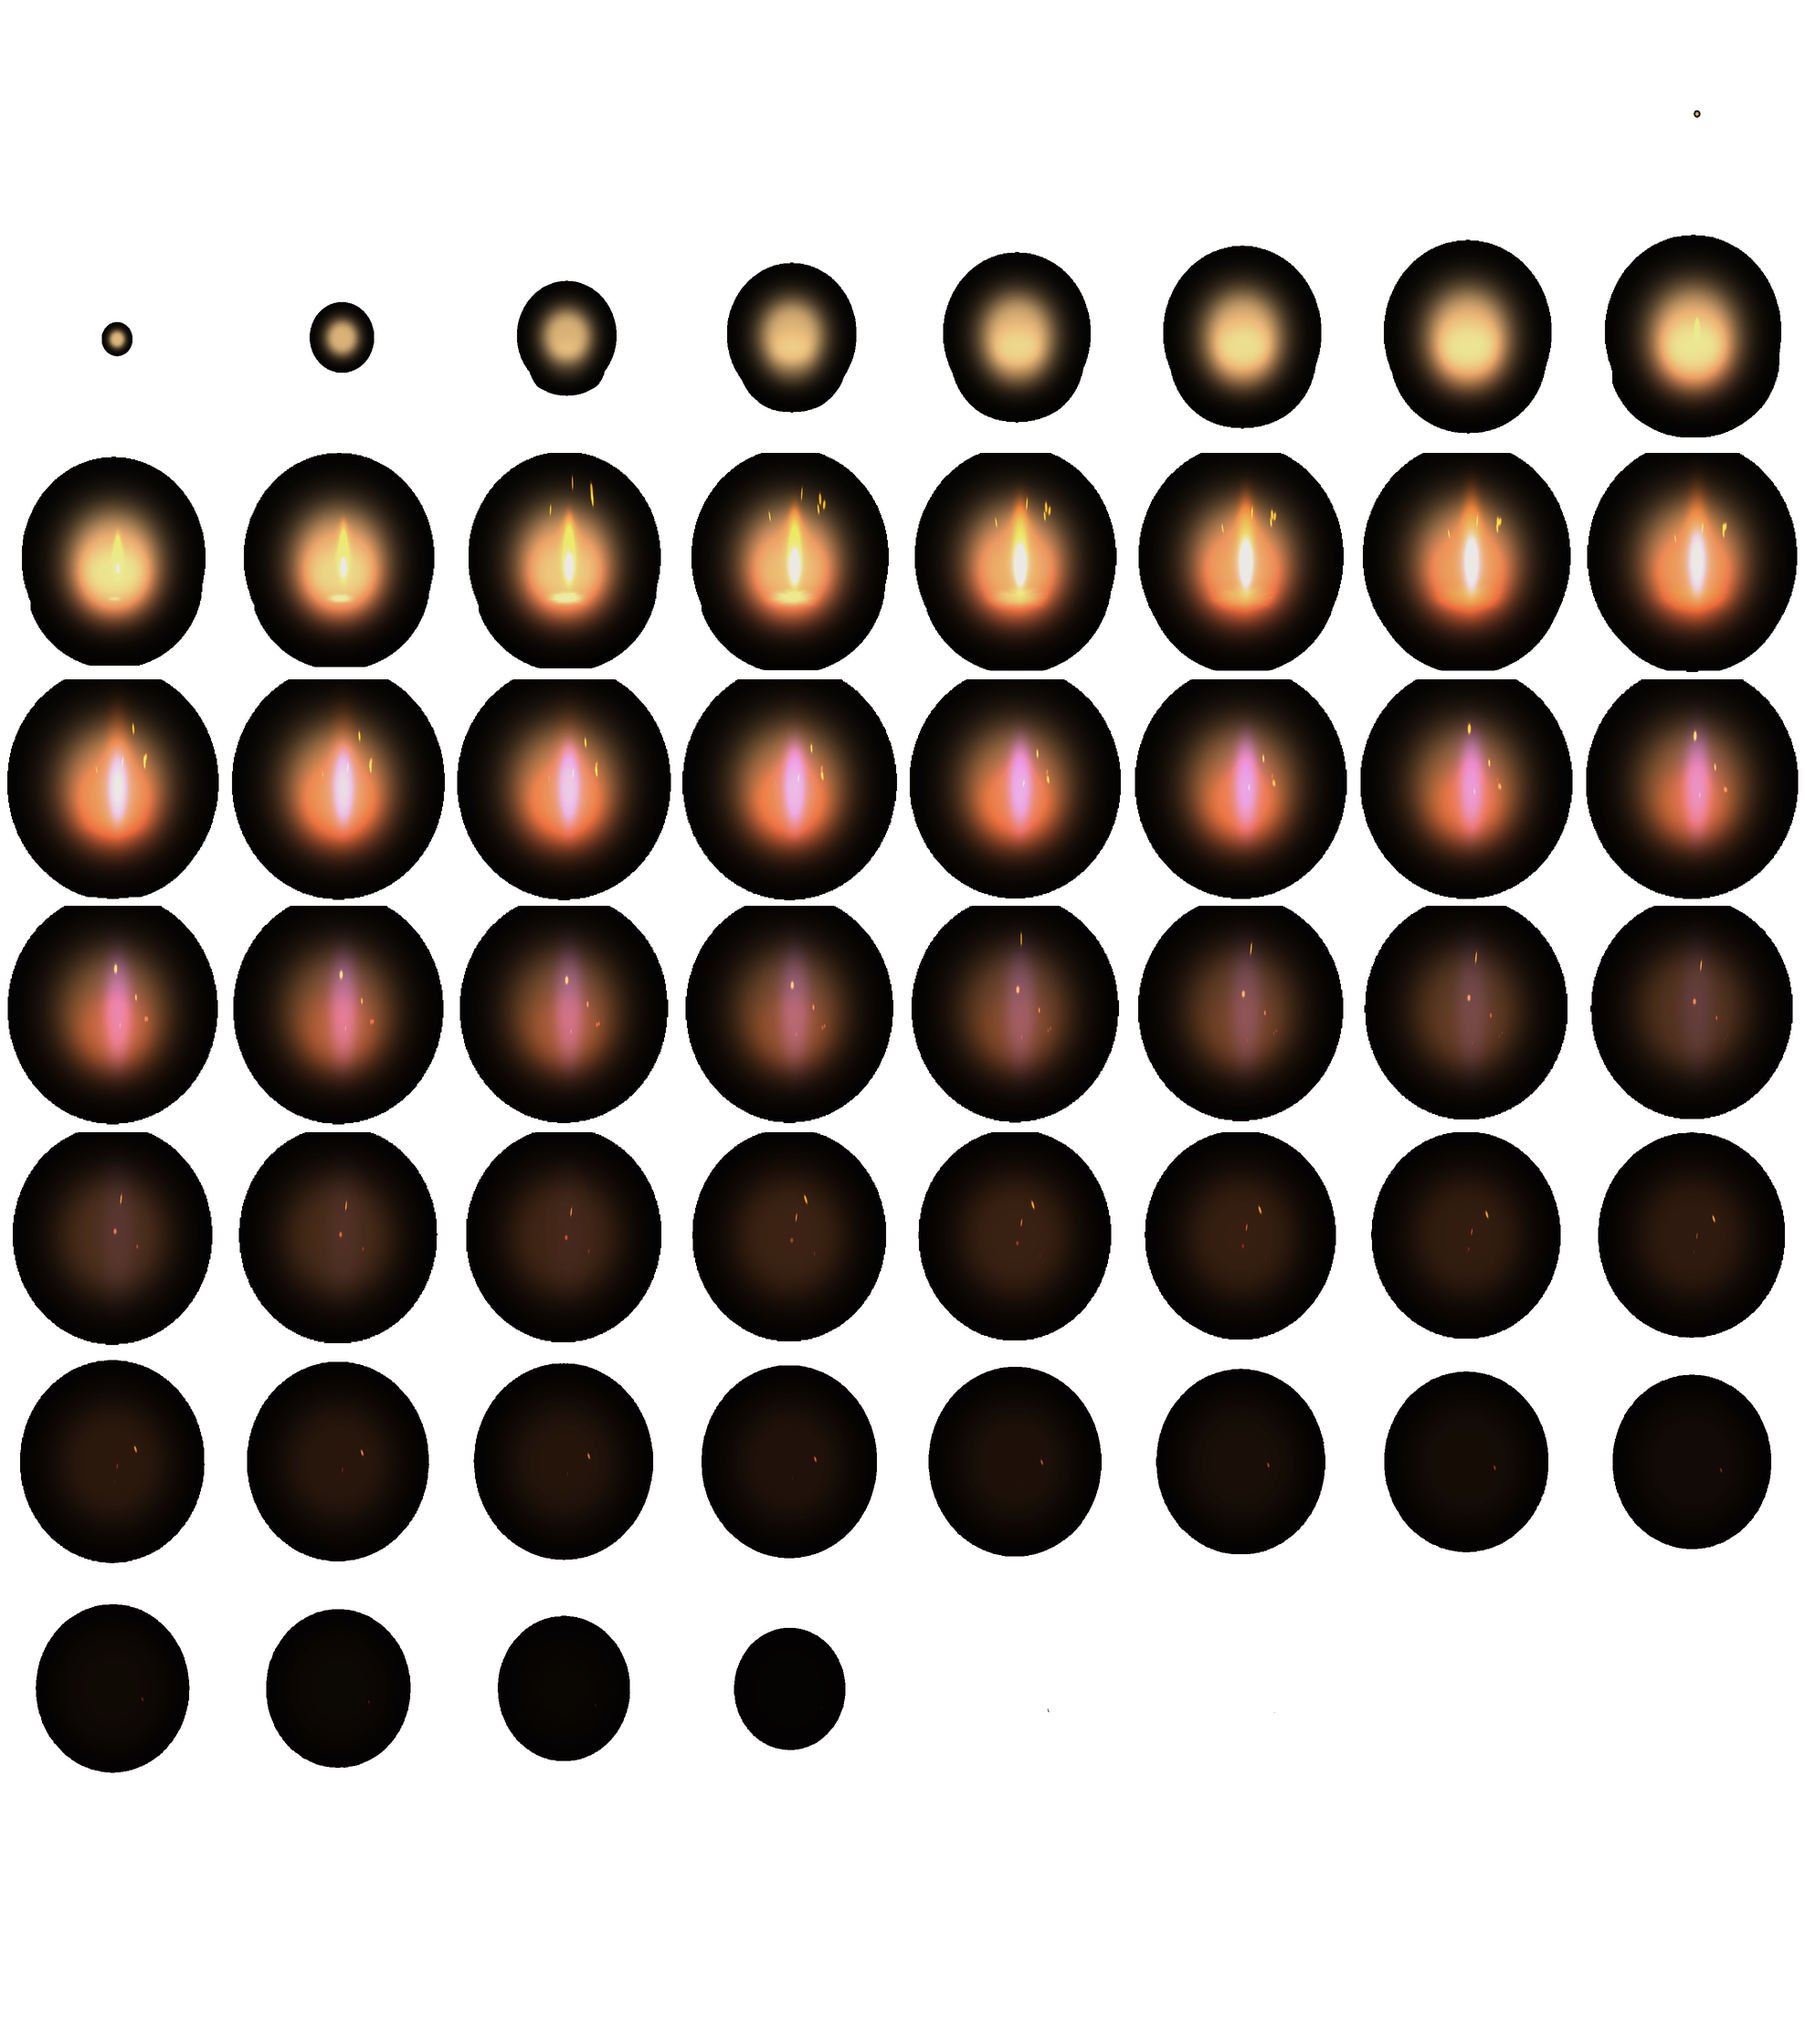
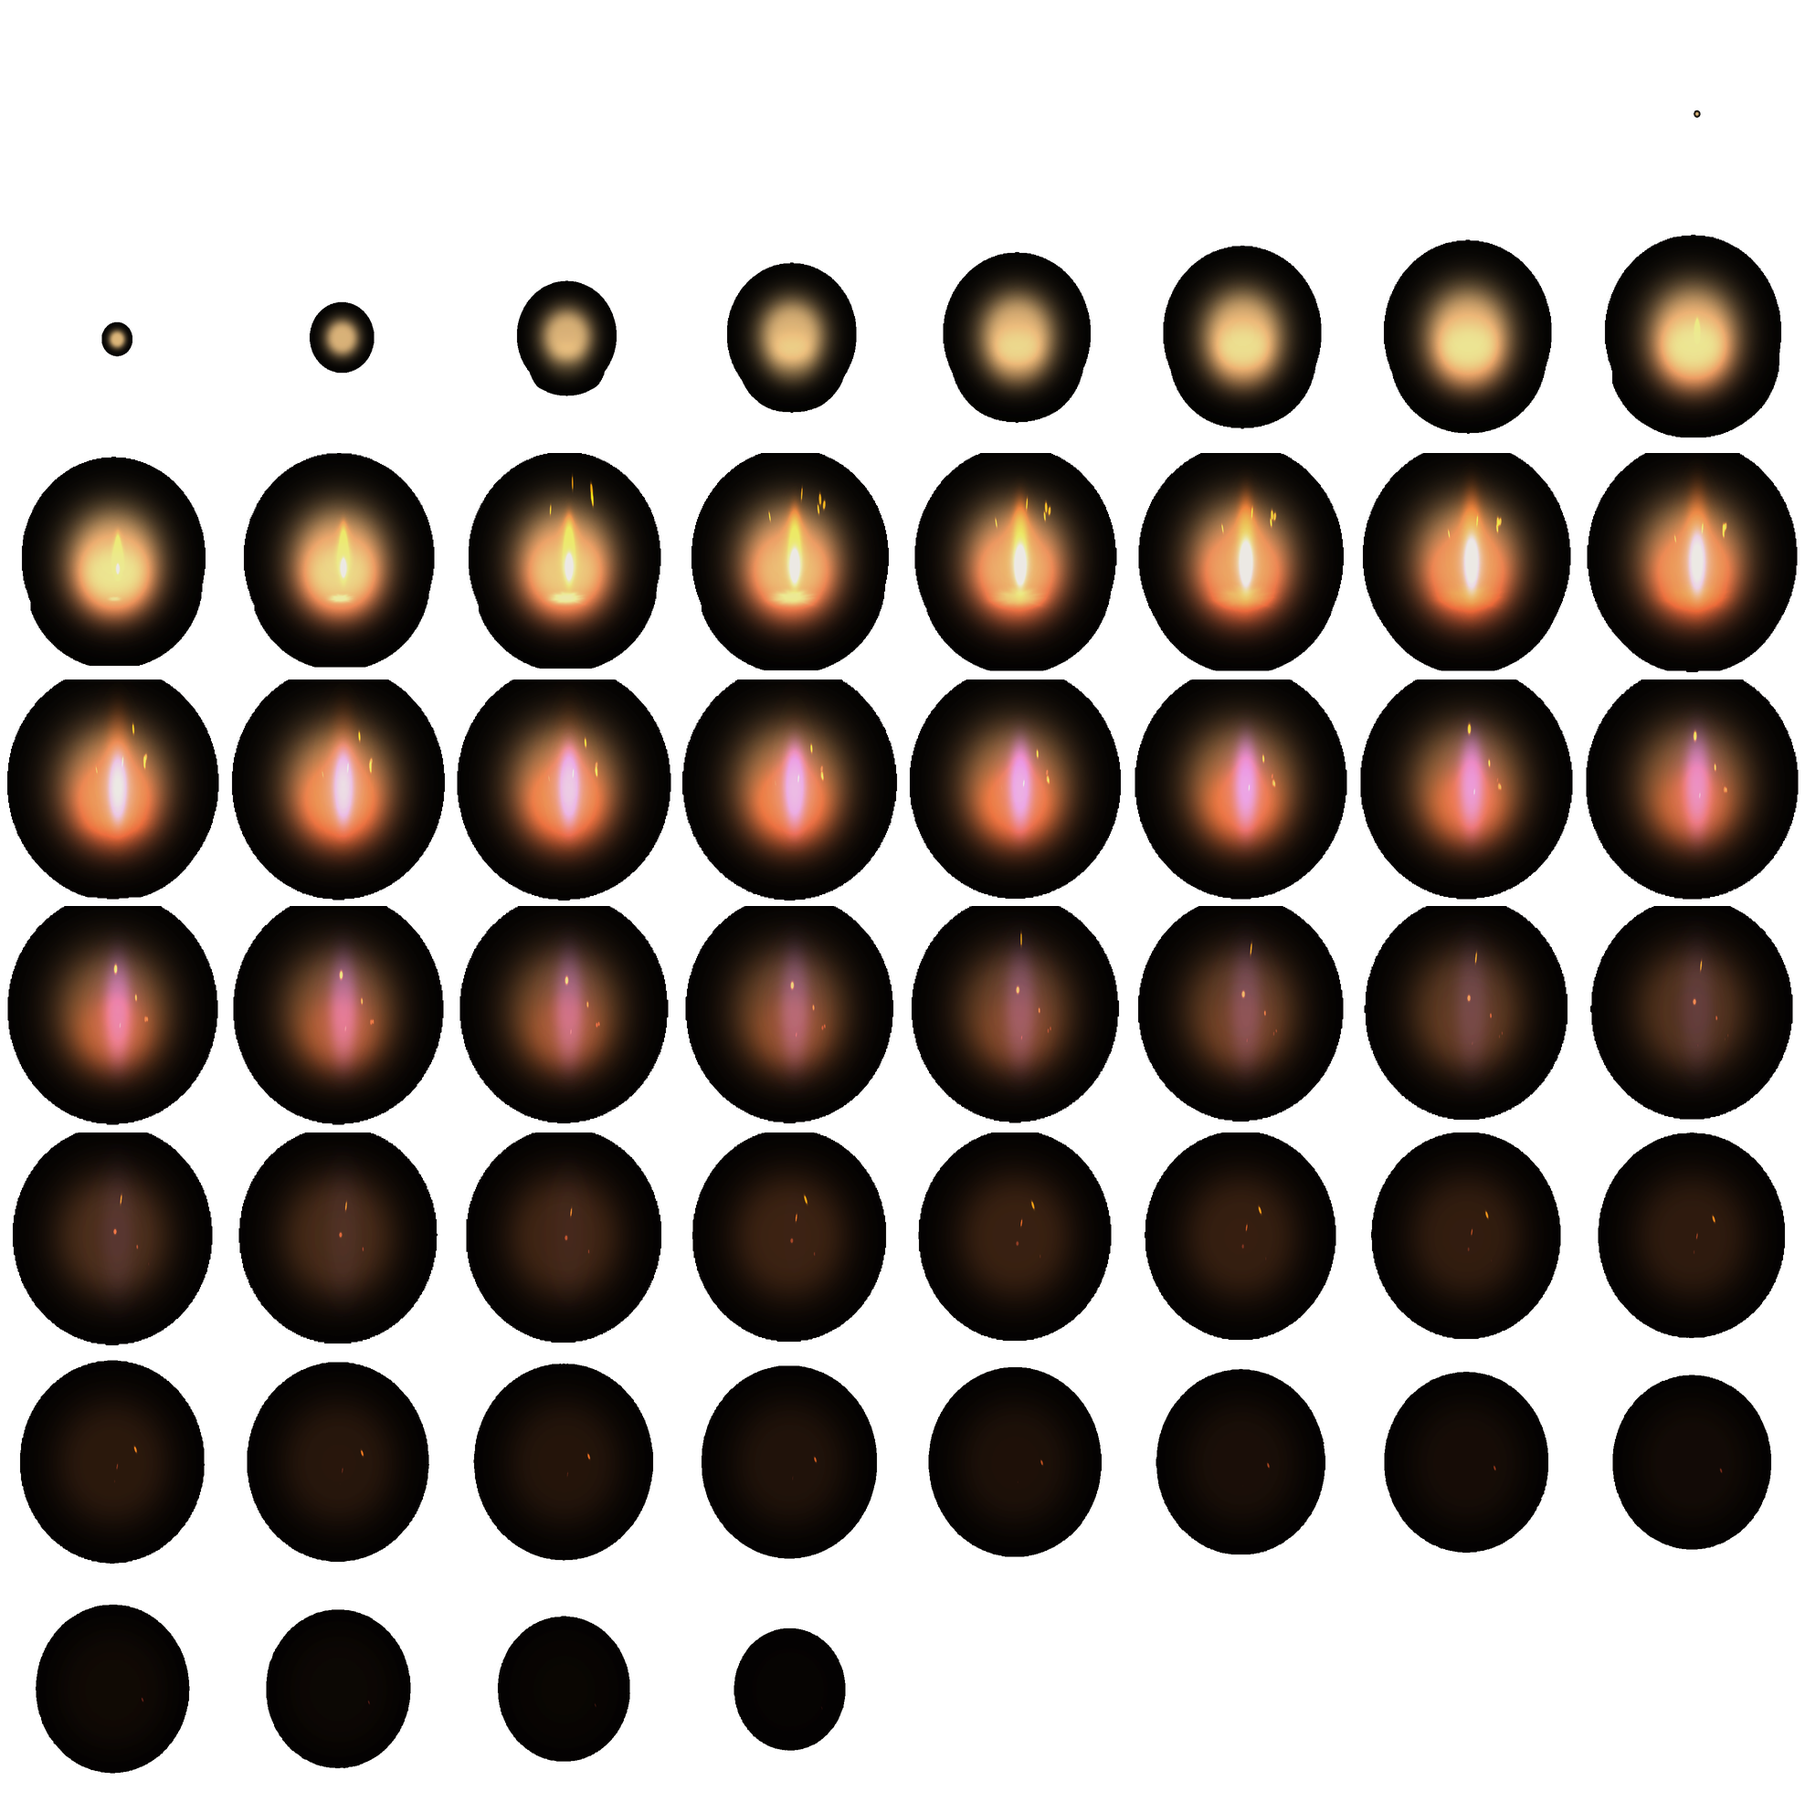
Cắt khung rỗng trong cả 8 atlas hiệu ứng — 122,7 MB còn 99,1 MB
test_bonho đỏ sau khi thêm power_awaken và summon_on_cast: tổng atlas 130,4 MB, vượt trần
100 MB mà chính cái guard này dựng ra sau lần Chrome sập.

Nguyên nhân không phải hai clip mới. Clip trong kit chạy tới hết clipDuration của Unity mà
phần lớn hiệu ứng tắt trước đó khá lâu — shield khai 81 khung thì chỉ 28 khung đầu có hình,
53 khung còn lại là ảnh trong suốt, chiếm chỗ trong atlas và ngốn bộ nhớ y như khung có
hình. bleed_apply 69→40, summon_on_cast 81→49, heal 70→62, weak 69→60, power_awaken 69→53.

vfx_nhap.py nay tự cắt đuôi rỗng lúc nhập: khung nào dưới 1% số pixel đặc của khung đậm
nhất thì bỏ, rồi xếp lại lưới. Cả tám atlas giữ nguyên độ nét k:2.

Sửa luôn một chỗ hoạt cảnh chạy hụt: game ánh xạ tiến độ lên `frames`, nên shield trước đây
dành 65% thời gian vẽ ra khoảng không.

Đóng việc #108.

Claude-Session: https://claude.ai/code/session_01VX6wEderDwHFwi2W5bBh6k

diff --git a/public/game/game.js b/public/game/game.js
@@ -1089,18 +1089,24 @@ for (const k in MOBS){ if (!MOBS[k].img) continue; const im = new Image(); im.sr
 // đĩa 12,3 còn 5,7 MB, cỡ hiển thị y nguyên. `k` là hệ số quy về đơn vị thiết kế cũ, để các
 // chỗ gọi vẫn truyền `scale` theo con số quen thuộc.
 const VFX_ATLAS_DEFS = {
-  stunned:      { k:2, cols:8, rows:11, frameW:188, frameH:214, frames:81, fps:30, anchorX:95.4,  anchorY:96.0 },
-  bleed_apply:  { k:2, cols:8, rows:9,  frameW:234, frameH:220, frames:69, fps:30, anchorX:113.9, anchorY:112.5 },
-  heal:         { k:2, cols:8, rows:9,  frameW:216, frameH:218, frames:70, fps:30, anchorX:107.7, anchorY:109.9 },
-  shield:       { k:2, cols:8, rows:11, frameW:238, frameH:201, frames:81, fps:30, anchorX:112.8, anchorY:99.5 },
-  poison_apply: { k:2, cols:8, rows:11, frameW:229, frameH:228, frames:81, fps:30, anchorX:114.1, anchorY:113.6 },
-  // 'weak' (stat-debuff aura) is the closest-fit substitute for slow/chill — the kit has no
-  // literal slow/freeze clip (see docs/ASSET_SOURCING.md's no-force-fit convention).
-  weak:         { k:2, cols:8, rows:9,  frameW:247, frameH:248, frames:69, fps:30, anchorX:123.2, anchorY:115.8 },
+  // `frames` là số khung CÒN HÌNH, không phải số khung Unity xuất ra. Clip trong kit chạy tới hết
+  // clipDuration của Unity, mà phần lớn hiệu ứng tắt trước đó khá lâu — `shield` 81 khung thì 53
+  // khung cuối là ảnh trong suốt. tools/vfx_nhap.py cắt đuôi rỗng lúc nhập, và điều đó sửa HAI
+  // thứ cùng lúc: tổng tám atlas hạ từ 122,7 xuống 92,2 MB (trần test_bonho là 100), và hoạt cảnh
+  // hết chạy hụt — game ánh xạ tiến độ lên `frames`, nên đuôi rỗng làm quá nửa thời gian vẽ ra
+  // khoảng không.
+  stunned:        { k:2, cols:8, rows:11, frameW:188, frameH:214, frames:81, fps:30, anchorX:95.7,  anchorY:96.3 },
+  bleed_apply:    { k:2, cols:8, rows:5,  frameW:233, frameH:220, frames:40, fps:30, anchorX:113.7, anchorY:112.5 },
+  heal:           { k:2, cols:8, rows:8,  frameW:216, frameH:218, frames:62, fps:30, anchorX:107.7, anchorY:110.2 },
+  shield:         { k:2, cols:8, rows:4,  frameW:238, frameH:201, frames:28, fps:30, anchorX:112.8, anchorY:99.4 },
+  poison_apply:   { k:2, cols:8, rows:11, frameW:229, frameH:228, frames:81, fps:30, anchorX:114.1, anchorY:113.9 },
+  // 'weak' (hào quang tụt chỉ số) là thứ gần nhất thay cho làm chậm/đóng băng — kit không có clip
+  // nào đúng nghĩa đó (xem quy ước không-ép-bừa trong docs/ASSET_SOURCING.md).
+  weak:           { k:2, cols:8, rows:8,  frameW:247, frameH:248, frames:60, fps:30, anchorX:123.2, anchorY:116.1 },
   // Hai clip dưới đây KHÔNG dùng cho trạng thái trong trận — chúng chỉ chạy trên màn quay Khế
-  // Ước, vẽ thẳng bằng veVfxAtlas() chứ không qua addEffect(). Nhập bằng tools/vfx_nhap.py.
-  power_awaken:   { k:2, cols:8, rows:9,  frameW:283, frameH:256, frames:69, fps:30, anchorX:140.0, anchorY:127.4 },
-  summon_on_cast: { k:2, cols:8, rows:11, frameW:267, frameH:219, frames:81, fps:30, anchorX:132.4, anchorY:117.0 },
+  // Ước, vẽ thẳng bằng veVfxAtlas() chứ không qua addEffect().
+  power_awaken:   { k:2, cols:8, rows:7,  frameW:283, frameH:256, frames:53, fps:30, anchorX:140.0, anchorY:127.4 },
+  summon_on_cast: { k:2, cols:8, rows:7,  frameW:267, frameH:219, frames:49, fps:30, anchorX:132.4, anchorY:117.0 },
 };
 // ═══ Vòng Kiếm Lửa — hằng số hình học ═══
 // Tâm elip cao hơn bàn chân bấy nhiêu. Dùng cho CẢ ba việc: cắt vòng lửa làm nửa sau / nửa
@@ -15812,9 +15818,9 @@ function kuVe(){
                          Math.floor(Math.max(0, (k - 0.45) / 0.55) * CHI_ANH.nHien));
     // Hào quang 5★ chạy TIẾP từ pha nổ sang đây — cộng thêm độ dài pha nổ để không giật lại
     // từ khung 0. Triệu hồi thì bắt đầu ngay tại pha này.
-    // Cỡ hiệu ứng lấy theo cạnh NGẮN của màn chia cho ~350: ở 1440x860 ra chừng 640px, tức
-    // rộng hơn con vật (~400px). Chia cho 700 như lần đầu thì vòng triệu hồi nhỏ hơn con vật
-    // và nằm gọn sau lưng nó — vẽ mà như không vẽ.
+    // Cỡ hiệu ứng lấy theo cạnh NGẮN của màn chia cho 350: ở 1440x860 ra chừng 640px, tức rộng
+    // hơn con vật (~400px). Chia cho 700 như lần đầu thì vòng triệu hồi nhỏ hơn con vật và nằm
+    // gọn sau lưng nó — vẽ mà như không vẽ.
     const _tyFx = Math.min(W2, H2) / 350;
     if (cur.sao === 5)
       veVfxAtlas(g2, 'power_awaken', cx, cy, e + _KU_NHIP.no, _tyFx, 1 - k*0.55);

diff --git a/tools/vfx_nhap.py b/tools/vfx_nhap.py
@@ -1,32 +1,64 @@
 #!/usr/bin/env python3
-"""Nhập một clip hiệu ứng từ kit Axie Origins vào assets/vfx/.
+"""Nhập clip hiệu ứng từ kit Axie Origins vào assets/vfx/.
 
-    python3 tools/vfx_nhap.py <id> [<id> …] [--kit <đường-kit>] [--k 2]
+    python3 tools/vfx_nhap.py <id> [<id> …] [--kit <đường-kit>] [--k 2] [--giu-khung-rong]
 
-Kit đã dựng sẵn 107 clip cho web (atlas.png + clip.json, đã cắt sát và ghi rõ lưới), nên việc
-ở đây chỉ là THU NHỎ rồi in ra dòng khai cho VFX_ATLAS_DEFS. `k` là hệ số thu: k=2 nghĩa là
-atlas về một nửa mỗi cạnh — đúng hệ số của sáu clip đang chạy, và là lý do trường `k` tồn tại.
+Kit đã dựng sẵn 107 clip cho web (atlas.png + clip.json, đã cắt sát và ghi rõ lưới), nên việc ở
+đây có hai bước: CẮT ĐUÔI RỖNG rồi THU NHỎ, sau đó in ra dòng khai cho VFX_ATLAS_DEFS.
+
+Cắt đuôi rỗng — vì sao: clip trong kit chạy tới hết `clipDuration` của Unity, mà phần lớn hiệu
+ứng tắt trước đó khá lâu. `shield` là 81 khung nhưng chỉ 28 khung đầu có hình; 53 khung còn lại
+là ảnh trong suốt, chiếm chỗ trong atlas và ngốn bộ nhớ y như khung có hình. Cắt đi thì tổng tám
+atlas hạ từ 122,7 xuống 92,2 MB — vừa lọt trần 100 MB của test_bonho mà không phải giảm độ nét.
+Nó cũng sửa luôn chỗ hoạt cảnh chạy hụt: game ánh xạ tiến độ lên `frames`, nên đuôi rỗng làm
+quá nửa thời gian vẽ ra khoảng không.
+
+`k` là hệ số thu: k=2 nghĩa là mỗi cạnh còn một nửa — hệ số của cả tám clip đang chạy, và là lý
+do trường `k` tồn tại trong VFX_ATLAS_DEFS.
 """
 import os, sys, json, argparse
+import numpy as np
 from PIL import Image
 
 Image.MAX_IMAGE_PIXELS = None
+COT = 8            # số cột khi xếp lại, giữ đúng như kit xếp
+NGUONG = 0.01      # khung có dưới 1% số pixel đặc của khung đậm nhất thì coi là rỗng
 
 
-def nhap(kit, cid, k, ra):
+def khung_co_hinh(im, a, n):
+    """Chỉ số khung CUỐI CÙNG còn nhìn thấy được."""
+    W, H = a['frameW'], a['frameH']
+    dem = []
+    for i in range(n):
+        x, y = (i % a['cols']) * W, (i // a['cols']) * H
+        dem.append(int((np.asarray(im.crop((x, y, x + W, y + H)))[..., 3] > 8).sum()))
+    m = max(dem)
+    return max(i for i, v in enumerate(dem) if v > m * NGUONG) + 1
+
+
+def nhap(kit, cid, k, ra, cat=True):
     thu = os.path.join(kit, 'web-vfx/public/vfx', cid)
     c = json.load(open(os.path.join(thu, 'clip.json'), encoding='utf-8'))
     a = c['atlas']
     im = Image.open(os.path.join(thu, a['file'])).convert('RGBA')
-    im = im.resize((im.width // k, im.height // k), Image.LANCZOS)
+    W, H, n0 = a['frameW'], a['frameH'], c['frames']
+    n = khung_co_hinh(im, a, n0) if cat else n0
+
+    w, h = W // k, H // k
+    hang = (n + COT - 1) // COT
+    ra_im = Image.new('RGBA', (w * COT, h * hang))
+    for i in range(n):
+        x, y = (i % a['cols']) * W, (i // a['cols']) * H
+        ra_im.paste(im.crop((x, y, x + W, y + H)).resize((w, h), Image.LANCZOS),
+                    ((i % COT) * w, (i // COT) * h))
     d = os.path.join(ra, cid); os.makedirs(d, exist_ok=True)
     p = os.path.join(d, 'atlas.png')
-    im.save(p, optimize=True)
-    return ('  %-14s{ k:%d, cols:%d, rows:%d, frameW:%d, frameH:%d, frames:%d, fps:%d,'
-            ' anchorX:%.1f, anchorY:%.1f },   // %d KB'
-            % (cid + ':', k, a['cols'], a['rows'], a['frameW'] // k, a['frameH'] // k,
-               c['frames'], round(c['fps']), c['anchor']['x'] / k, c['anchor']['y'] / k,
-               os.path.getsize(p) // 1024))
+    ra_im.save(p, optimize=True)
+    return ('  %-16s{ k:%d, cols:%d, rows:%d, frameW:%d, frameH:%d, frames:%d, fps:%d,'
+            ' anchorX:%.1f, anchorY:%.1f },   // %d KB, cắt %d khung đuôi rỗng'
+            % (cid + ':', k, COT, hang, w, h, n, round(c['fps']),
+               c['anchor']['x'] / k, c['anchor']['y'] / k,
+               os.path.getsize(p) // 1024, n0 - n))
 
 
 def main():
@@ -34,10 +66,11 @@ def main():
     ap.add_argument('id', nargs='+')
     ap.add_argument('--kit', default='/home/user/axieinfinity/axie-origins-asset-kit')
     ap.add_argument('--k', type=int, default=2)
+    ap.add_argument('--giu-khung-rong', action='store_true')
     a = ap.parse_args()
     goc = os.path.normpath(os.path.join(os.path.dirname(os.path.abspath(__file__)), '..'))
     ra = os.path.join(goc, 'public/game/assets/vfx')
-    for cid in a.id: print(nhap(a.kit, cid, a.k, ra))
+    for cid in a.id: print(nhap(a.kit, cid, a.k, ra, not a.giu_khung_rong))
     return 0
 
 

diff --git a/docs/ART_CHIMERA_HOATCANH.md b/docs/ART_CHIMERA_HOATCANH.md
@@ -71,8 +71,25 @@ chừng 17 MB, quay ×10 mà giữ hết là 170 MB — đúng kiểu rò bộ n
 | `luoi` | ảnh tĩnh + chữ ★ | 10 ô đều thở, sao lục giác |
 
 Hai clip hiệu ứng đếm theo **giây thật** chứ không kéo giãn theo pha: chúng dài 2,3s và 2,7s
-trong khi pha `no` chỉ 0,42s, mà phần đuôi atlas là khung rỗng (việc #108) — ánh xạ đều lên cả
-69/81 khung thì quá nửa thời gian vẽ ra khoảng không.
+trong khi pha `no` chỉ 0,42s.
+
+## Kèm theo: cắt khung rỗng trong cả 8 atlas hiệu ứng (việc #108)
+
+Thêm hai clip mới làm tổng atlas vọt lên 130 MB, vượt trần 100 MB mà `test_bonho` dựng ra sau
+lần Chrome sập. Nguyên nhân thật không phải hai clip mới: clip trong kit chạy tới hết
+`clipDuration` của Unity, mà phần lớn hiệu ứng tắt trước đó khá lâu.
+
+| clip | khung | còn hình | | clip | khung | còn hình |
+|---|---|---|---|---|---|---|
+| `stunned` | 81 | 81 | | `weak` | 69 | **60** |
+| `bleed_apply` | 69 | **40** | | `power_awaken` | 69 | **53** |
+| `heal` | 70 | **62** | | `summon_on_cast` | 81 | **49** |
+| `shield` | 81 | **28** | | `poison_apply` | 81 | 81 |
+
+`vfx_nhap.py` nay tự cắt đuôi rỗng lúc nhập (khung nào dưới 1% pixel đặc của khung đậm nhất thì
+bỏ). Tổng tám atlas: **122,7 → 99,1 MB**, cả tám vẫn giữ nguyên độ nét k:2. Nó sửa luôn chỗ hoạt
+cảnh chạy hụt — game ánh xạ tiến độ lên `frames`, nên `shield` trước đây dành 65% thời gian vẽ
+ra khoảng không.
 
 ## Chạy lại
 
